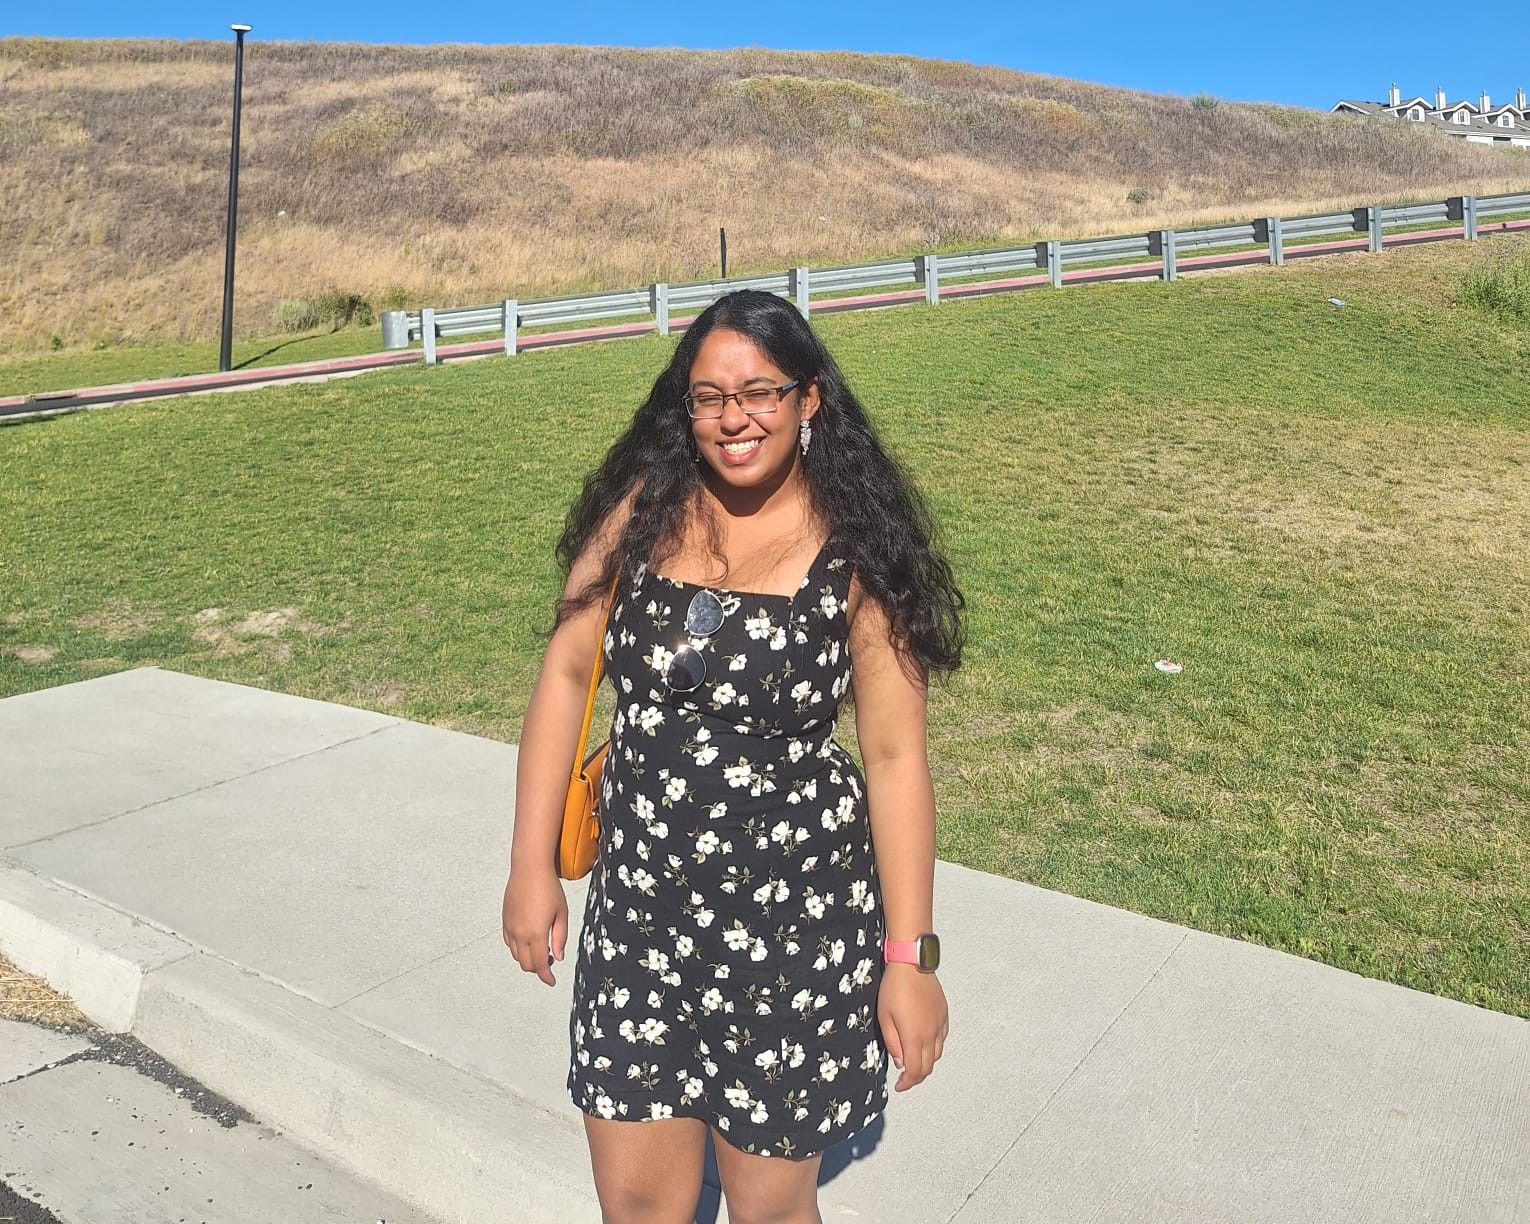
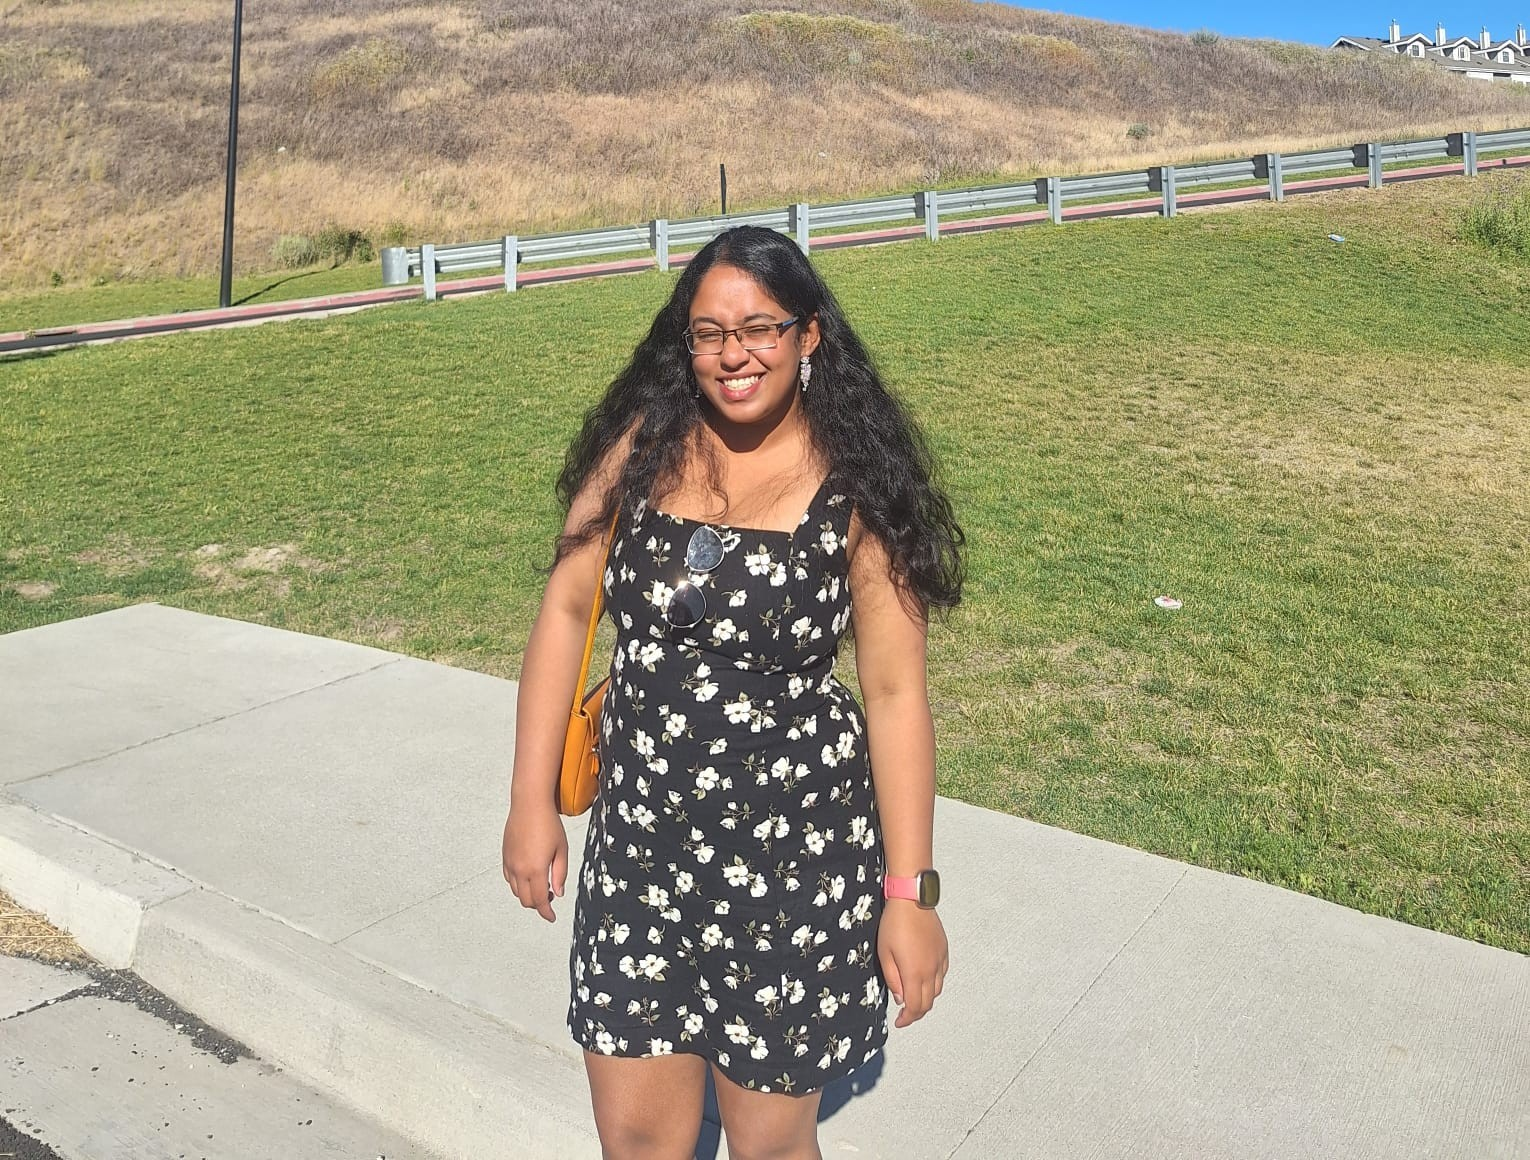
Updates

diff --git a/_pages/about.md b/_pages/about.md
@@ -27,6 +27,26 @@ latest_posts:
   limit: 3 # leave blank to include all the blog posts
 ---
 
-Electrical Engineering PhD student at Arizona State University working with [Prof. Mojdeh Khorsand ](https://labs.engineering.asu.edu/khorsand/).
+## About
 
-Interested in load forecasting, energy markets, optimization and ML for power systems, demand response, power systems operation and planning, and distribution networks.
+Electrical Engineering PhD student at Arizona State University working with [Prof. Mojdeh Khorsand](https://labs.engineering.asu.edu/khorsand/).
+
+<hr />
+
+## Research Interests
+
+- Load forecasting and energy markets
+- Optimization and ML for power systems
+- Demand response and grid flexibility
+- Power system operation and planning
+- Distribution networks and DER integration
+
+<hr />
+
+## Contact
+
+- Email: `npudukka[at]asu[dot]edu`
+- Office: Engineering Research Center 508, Arizona State University
+- Location: Tempe, AZ 85281
+
+<hr />
